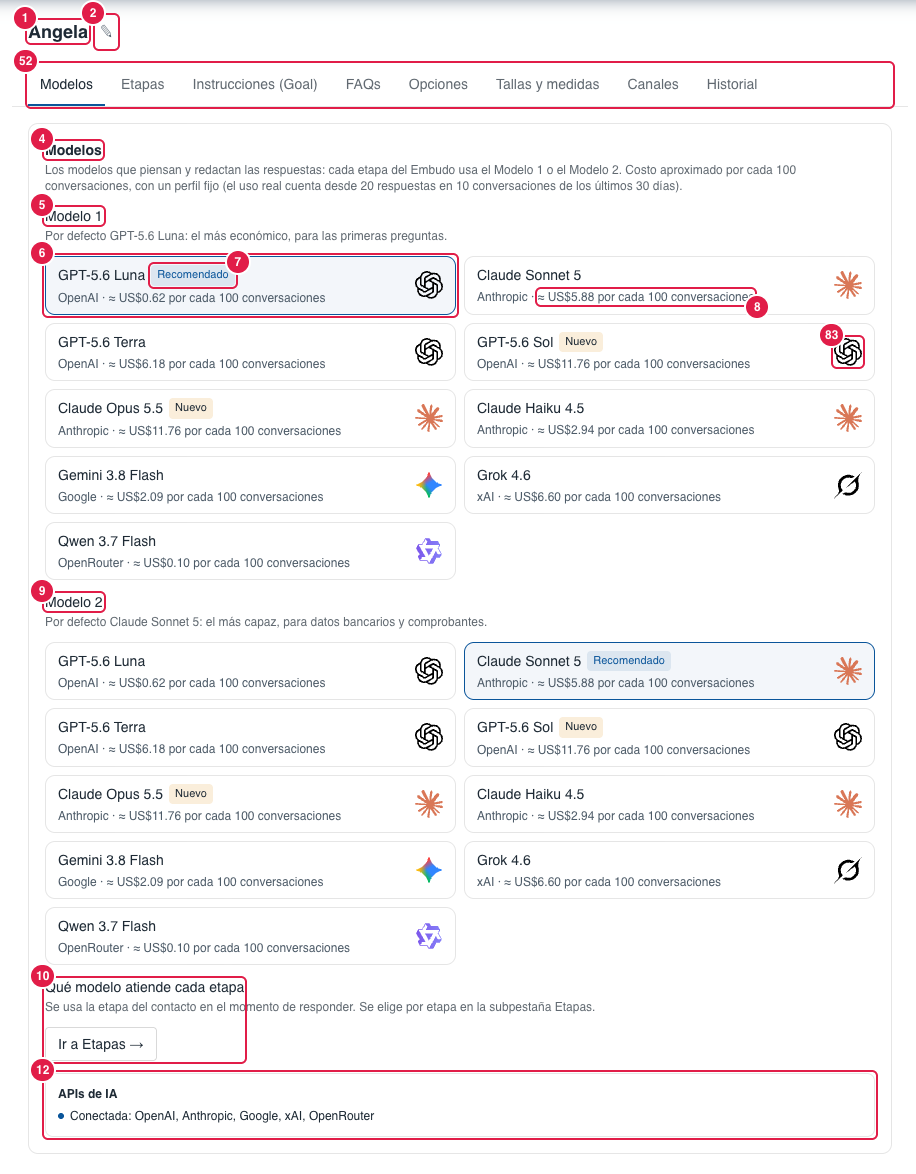
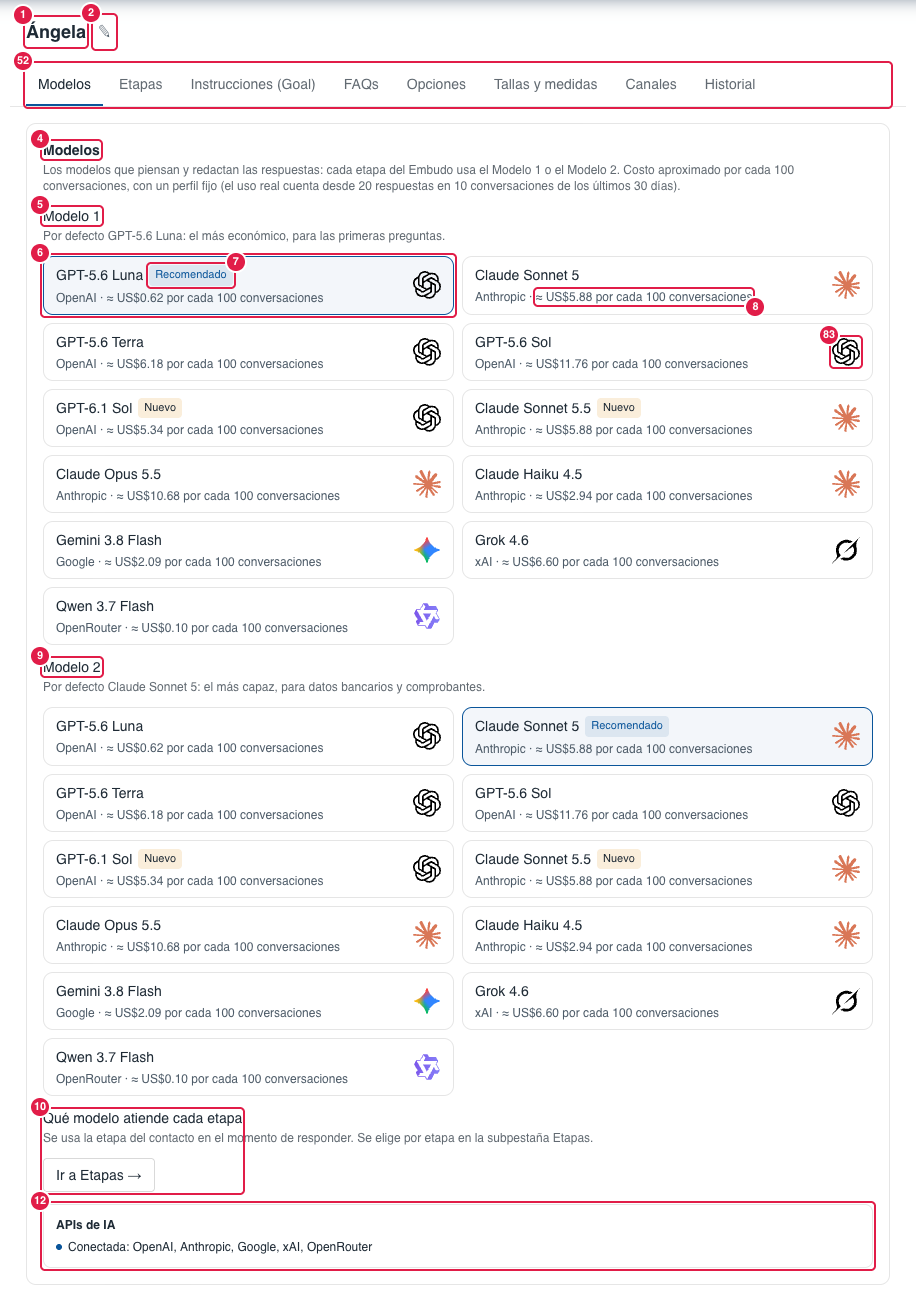
feat(agente-ia): Claude Sonnet 5.5 y GPT-6.1 Sol en Modelos, con la etiqueta «Nuevo»
- Catálogo: Claude Sonnet 5.5 (claude-sonnet-5-5, salió el 28-sep-2026) y GPT-6.1 Sol
  (gpt-6.1-sol, 29-sep-2026, DevDay), elegibles como Modelo 1 o Modelo 2. «Nuevo» pasa a
  estos dos (se quita de GPT-5.6 Sol y Claude Opus 5.5).
- Precios de las docs oficiales: Sonnet 5.5 2 / 10 (como Sonnet 5); GPT-6.1 Sol 2 / 10 con
  caché 0.10 / escritura 2.50 y tramo desde 272 mil tokens (4 / 15). Corrección: la lectura
  de caché de Opus 5.5 es el 5 % (0.20), no el 10 %.
- Probados con las llaves de staging (ai:dry-run y pruebas temporales): id de API, texto al
  cliente junto con las acciones (mover_etapa, fijar_cotizacion, workflow, detalle; 3 de 3)
  y lectura de PDF. Sin migración.
- Mapa: fila 7 (Nuevo) y captura de Modelos rehecha con los 11 modelos; docs/agente-ia.md.

Changed region(s): [[0.0, 0.0, 0.9782, 0.9813], [0.8865, 0.2147, 0.9782, 0.4293], [0.4585, 0.46, 0.4891, 0.4906]]

diff --git a/lib/ai/pricing.ts b/lib/ai/pricing.ts
@@ -20,6 +20,14 @@
 //     0.13, caché 0.006 / escritura 0.038; desde 32 mil tokens de entrada 0.10 / 0.40
 //     / 0.02 / 0.125; desde 256 mil 0.20 / 0.80 / 0.04 / 0.25).
 //   Los TRAMOS se eligen por la entrada total de cada llamada (computeCostUsd).
+// - Modelos del 28/29-sep-2026:
+//   · Claude Sonnet 5.5: https://platform.claude.com/docs/en/about-claude/pricing
+//     (2 / 10, igual que Sonnet 5; caché con la regla de Anthropic).
+//   · GPT-6.1 Sol: https://developers.openai.com/api/docs/models/gpt-6.1-sol (2 / 10,
+//     cached 0.10 = 5 %, cache writes 2.50; desde 272 mil tokens de entrada, 2× entrada
+//     y caché y 1.5× salida).
+//   · Claude Opus 5.5 (corrección, misma fuente de Anthropic): su lectura de caché es
+//     el 5 % de la entrada (0.20), no el 10 % de la regla.
 // - Overrides sin caché de xAI / Google / OpenRouter: sin descuento (los tokens de
 //   caché se cobran como entrada normal).
 import type { ModelUsage, ProviderId } from "./types";
@@ -51,6 +59,14 @@ export const DEFAULT_MODEL_PRICES: Readonly<Record<string, BasePrice | null>> = 
   "claude-sonnet-5": { input: 2, output: 10 },
   "gpt-5.6-terra": { input: 2, output: 12 },
   "gpt-5.6-sol": { input: 4, output: 20 },
+  "gpt-6.1-sol": {
+    input: 2,
+    output: 10,
+    cacheRead: 0.1,
+    cacheWrite: 2.5,
+    tiers: [{ minInputTokens: 272_001, input: 4, output: 15, cacheRead: 0.2, cacheWrite: 5 }],
+  },
+  "claude-sonnet-5-5": { input: 2, output: 10 },
   "claude-haiku-4-5": { input: 1, output: 5 },
   "grok-4.6": {
     input: 2,
@@ -59,7 +75,7 @@ export const DEFAULT_MODEL_PRICES: Readonly<Record<string, BasePrice | null>> = 
     cacheWrite: 2,
     tiers: [{ minInputTokens: 200_000, input: 4, output: 12, cacheRead: 1, cacheWrite: 4 }],
   },
-  "claude-opus-5-5": { input: 4, output: 20 },
+  "claude-opus-5-5": { input: 4, output: 20, cacheRead: 0.2 },
   "gemini-3.8-flash": { input: 0.75, output: 3.75, cacheRead: 0.075, cacheWrite: 0.75 },
   "qwen-3.7-flash": {
     input: 0.03,

diff --git a/lib/ai/pricing.test.ts b/lib/ai/pricing.test.ts
@@ -64,6 +64,19 @@ describe("resolveModelPrice", () => {
     ).toBe(0.3);
   });
 
+  it("28/29-sep-2026: Sonnet 5.5 como Sonnet 5; GPT-6.1 Sol con su caché al 5 %; Opus 5.5 lee caché al 5 %", () => {
+    expect(resolveModelPrice("claude-sonnet-5-5", "anthropic")).toEqual({ inputPerMTok: 2, outputPerMTok: 10, cacheReadPerMTok: 0.2, cacheWritePerMTok: 2.5 });
+    expect(resolveModelPrice("gpt-6.1-sol", "openai")).toMatchObject({ inputPerMTok: 2, outputPerMTok: 10, cacheReadPerMTok: 0.1, cacheWritePerMTok: 2.5 });
+    expect(resolveModelPrice("claude-opus-5-5", "anthropic")).toEqual({ inputPerMTok: 4, outputPerMTok: 20, cacheReadPerMTok: 0.2, cacheWritePerMTok: 5 });
+  });
+
+  it("GPT-6.1 Sol: más de 272 mil tokens de entrada = 2× entrada y 1.5× salida", () => {
+    const sol = resolveModelPrice("gpt-6.1-sol", "openai");
+    const u = (inputTokens: number) => ({ inputTokens, outputTokens: 1_000_000, cacheReadTokens: 0, cacheWriteTokens: 0 });
+    expect(computeCostUsd(u(272_000), sol)).toBeCloseTo(272_000 * 2 / 1e6 + 10, 8);
+    expect(computeCostUsd(u(272_001), sol)).toBeCloseTo(272_001 * 4 / 1e6 + 15, 8);
+  });
+
   it("todo modelo del catálogo tiene entrada de precio (número o null explícito)", () => {
     for (const m of MODEL_CATALOG) expect(m.id in DEFAULT_MODEL_PRICES).toBe(true);
   });

diff --git a/lib/ai/catalog.ts b/lib/ai/catalog.ts
@@ -60,6 +60,33 @@ export const MODEL_CATALOG = [
     multimodal: true,
     pdf: true,
     roles: ["cerebro"],
+  },
+  {
+    // Salió el 29-sep-2026 (DevDay). Casi al nivel de GPT-6 Astra por la mitad del
+    // precio de GPT-5.6 Sol. Acepta imagen (y PDF como archivo, igual que la 5.6).
+    id: "gpt-6.1-sol",
+    label: "GPT-6.1 Sol",
+    provider: "openai",
+    providerModelId: "gpt-6.1-sol",
+    logo: "openai",
+    tier: "tope",
+    multimodal: true,
+    pdf: true,
+    roles: ["cerebro"],
+    isNew: true,
+  },
+  {
+    // Salió el 28-sep-2026: >30 % más rápido que Sonnet 5 al mismo precio. Rechaza
+    // tool_choice forzado y temperatura (el adaptador no manda ninguno de los dos).
+    id: "claude-sonnet-5-5",
+    label: "Claude Sonnet 5.5",
+    provider: "anthropic",
+    providerModelId: "claude-sonnet-5-5",
+    logo: "claude",
+    tier: "tope",
+    multimodal: true,
+    pdf: true,
+    roles: ["cerebro"],
     isNew: true,
   },
   {
@@ -73,7 +100,6 @@ export const MODEL_CATALOG = [
     multimodal: true,
     pdf: true,
     roles: ["cerebro"],
-    isNew: true,
   },
   {
     id: "claude-haiku-4-5",

diff --git a/lib/ai/catalog.test.ts b/lib/ai/catalog.test.ts
@@ -44,6 +44,8 @@ describe("catálogo de modelos", () => {
     for (const id of [
       "claude-sonnet-5",
       "gpt-5.6-terra",
+      "gpt-6.1-sol",
+      "claude-sonnet-5-5",
       "claude-haiku-4-5",
       "gemini-3.8-flash",
       "grok-4.6",
@@ -51,6 +53,12 @@ describe("catálogo de modelos", () => {
     ]) {
       expect(cerebro).toContain(id);
     }
+  });
+
+  it("«Nuevo» solo en los modelos del 28/29-sep-2026 (Sonnet 5.5 y GPT-6.1 Sol)", () => {
+    expect(MODEL_CATALOG.filter((m) => "isNew" in m && m.isNew).map((m) => m.id)).toEqual(["gpt-6.1-sol", "claude-sonnet-5-5"]);
+    expect(getModel("claude-sonnet-5-5")?.providerModelId).toBe("claude-sonnet-5-5");
+    expect(getModel("gpt-6.1-sol")?.providerModelId).toBe("gpt-6.1-sol");
   });
 
   it("Qwen 3.7 Flash está marcado multimodal (verificado)", () => {

diff --git a/docs/agente-ia.md b/docs/agente-ia.md
@@ -141,8 +141,11 @@ clientes** (eso llega en la Fase B y siguientes).
 Filtro (limpia el anuncio): **GPT-5.6 Luna**. Desde la Fase E el cerebro son **dos
 modelos por etapa**: Modelo 1 (default **GPT-5.6 Luna**; Inbox, Prospecto, Interesado) y
 Modelo 2 (default **Claude Sonnet 5**; Cerca de compra y Compra). Cualquiera de los dos
-se elige entre: GPT-5.6 Luna, Claude Sonnet 5, GPT-5.6 Terra, GPT-5.6 Sol, Claude Opus 5.5,
-Claude Haiku 4.5, Gemini 3.8 Flash, Grok 4.6 y Qwen 3.7 Flash. Los tres últimos salen en
+se elige entre: GPT-5.6 Luna, Claude Sonnet 5, GPT-5.6 Terra, GPT-5.6 Sol, GPT-6.1 Sol,
+Claude Sonnet 5.5, Claude Opus 5.5, Claude Haiku 4.5, Gemini 3.8 Flash, Grok 4.6 y Qwen 3.7
+Flash (GPT-6.1 Sol y Claude Sonnet 5.5 desde el 29-sep-2026, con la etiqueta «Nuevo»; se probaron
+con las llaves de staging: id de API, texto al cliente junto con las acciones y lectura de PDF).
+Los tres últimos salen en
 gris hasta que su llave esté en Railway (y no se pueden guardar sin ella). Si el Modelo 1 no
 tiene llave en un entorno, contesta el Modelo 2; si un vendedor cambia la etapa mientras el
 agente escribe y eso cambia de modelo, la respuesta se descarta y se regenera con el correcto.
@@ -150,7 +153,9 @@ Qwen no lee PDF: un comprobante en PDF le llega como nota de texto. Precios inte
 (`lib/ai/pricing.ts`, fuentes en el archivo): Gemini 3.8 Flash 0.75 / 3.75 USD por millón
 **hasta el 31-dic-2026** (se duplica en 2027), Grok 4.6 2 / 6 (desde 200 mil tokens de entrada
 4 / 12), Qwen 3.7 Flash 0.03 / 0.13 (desde 32 mil 0.10 / 0.40; desde 256 mil 0.20 / 0.80): el
-tramo se elige por la entrada de cada llamada. El tope de respuesta del cerebro es de 4,096 tokens; si
+tramo se elige por la entrada de cada llamada. GPT-6.1 Sol 2 / 10 (caché 0.10; desde 272 mil tokens de
+entrada 4 / 15), Claude Sonnet 5.5 2 / 10 (como Sonnet 5) y Claude Opus 5.5 4 / 20 con lectura de caché
+de 0.20 (el 5 %, no el 10 %; corregido el 29-sep-2026). El tope de respuesta del cerebro es de 4,096 tokens; si
 una respuesta se corta o una acción llega incompleta, el vendedor ve el aviso 🤖 "respuesta
 cortada" (nunca se descarta en silencio). Los model-id de API se verificaron contra docs
 oficiales / OpenRouter (2026-09).

diff --git a/docs/mapa-crm.md b/docs/mapa-crm.md
@@ -636,7 +636,7 @@ Todo lo que define a Ángela. Arriba, su nombre y una **barra de subpestañas (5
 su parte (desde el 27-sep-2026; antes eran dos pestañas, Crear e Implementar; Historial desde el 28-sep-2026). **Todo cambio de esta pestaña pide confirmar en
 una ventana arriba (59)**; nada se guarda con un solo clic.
 
-> **Capturas:** la de Modelos es del 28-sep-2026 (subpestañas, logos y «Ir a Etapas →»). **Pendientes** las otras
+> **Capturas:** la de Modelos es del 29-sep-2026 (subpestañas, logos, «Ir a Etapas →» y los modelos nuevos GPT-6.1 Sol y Claude Sonnet 5.5). **Pendientes** las otras
 > cuatro, anteriores al 27-sep-2026 (todavía muestran «Crear · Implementar», todo en una sola página, sin nombres de
 > versión ni «Guardar cambios» en Opciones; la de Canales aún muestra el número de prueba). Los números 1–51 siguen
 > valiendo (salvo 3, 11 y 15, que se quitaron); de 52–83 solo 52 y 83 aparecen en una captura (la de Modelos).
@@ -655,7 +655,7 @@ una ventana arriba (59)**; nada se guarda con un solo clic.
 | 4 | **Modelos** | Los "cerebros" que piensan y redactan. | Todos |
 | 5 | **Modelo 1** | Por defecto GPT-5.6 Luna: el más económico, para las primeras preguntas. | Todos |
 | 6 | **Modelo elegido** | La tarjeta resaltada es la que está en uso. | Todos |
-| 7 | **Recomendado** | El que sugiere el CRM. | Todos |
+| 7 | **Recomendado** | El que sugiere el CRM. La etiqueta naranja **Nuevo** marca los modelos recién salidos (desde el 29-sep-2026: **GPT-6.1 Sol** y **Claude Sonnet 5.5**). | Todos |
 | 8 | **Costo aproximado** | "≈ US$ por cada 100 conversaciones". Una opción en gris no tiene llave conectada. Abajo a la izquierda de cada tarjeta, antes del costo, va el proveedor **por donde se conecta** (OpenAI, Anthropic, Google, xAI, OpenRouter). | Todos |
 | 9 | **Modelo 2** | Por defecto Claude Sonnet 5: el más capaz, para datos bancarios y comprobantes. | Todos |
 | 10 | **Qué modelo atiende cada etapa** | Desde el 27-sep-2026 solo el botón **Ir a Etapas →**: el modelo de cada etapa se elige en la subpestaña Etapas (67). | Todos |
